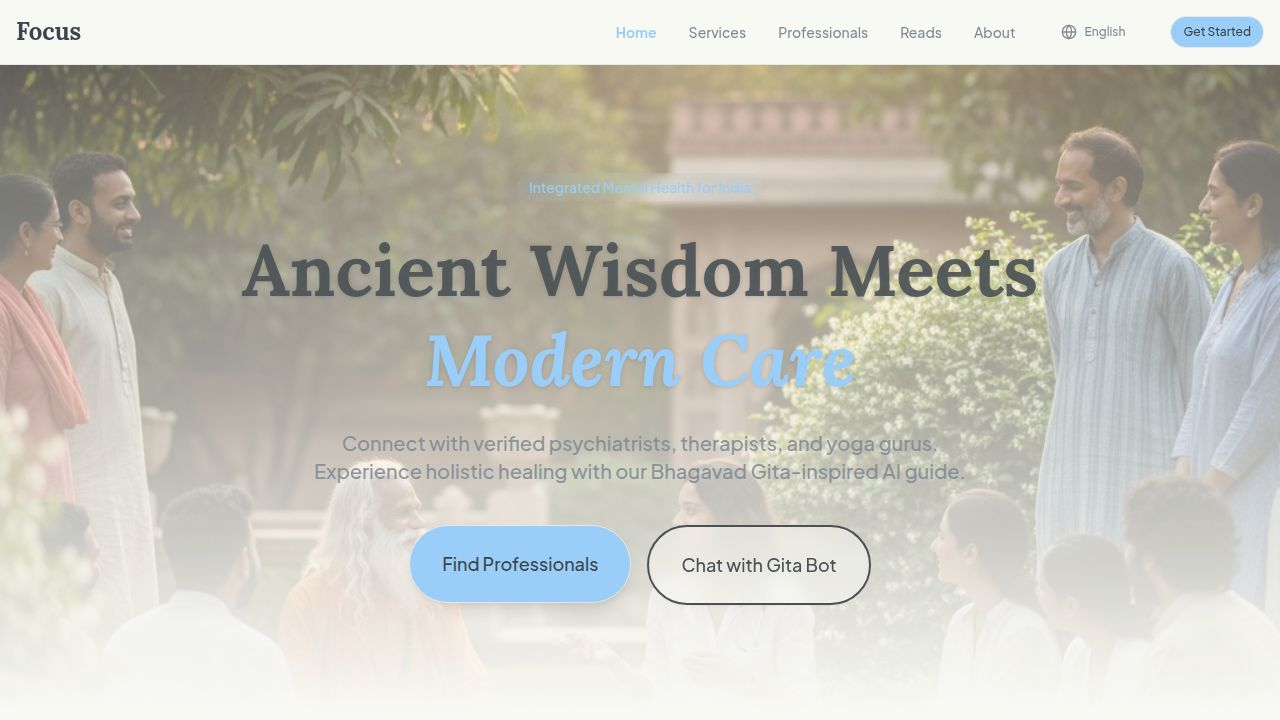
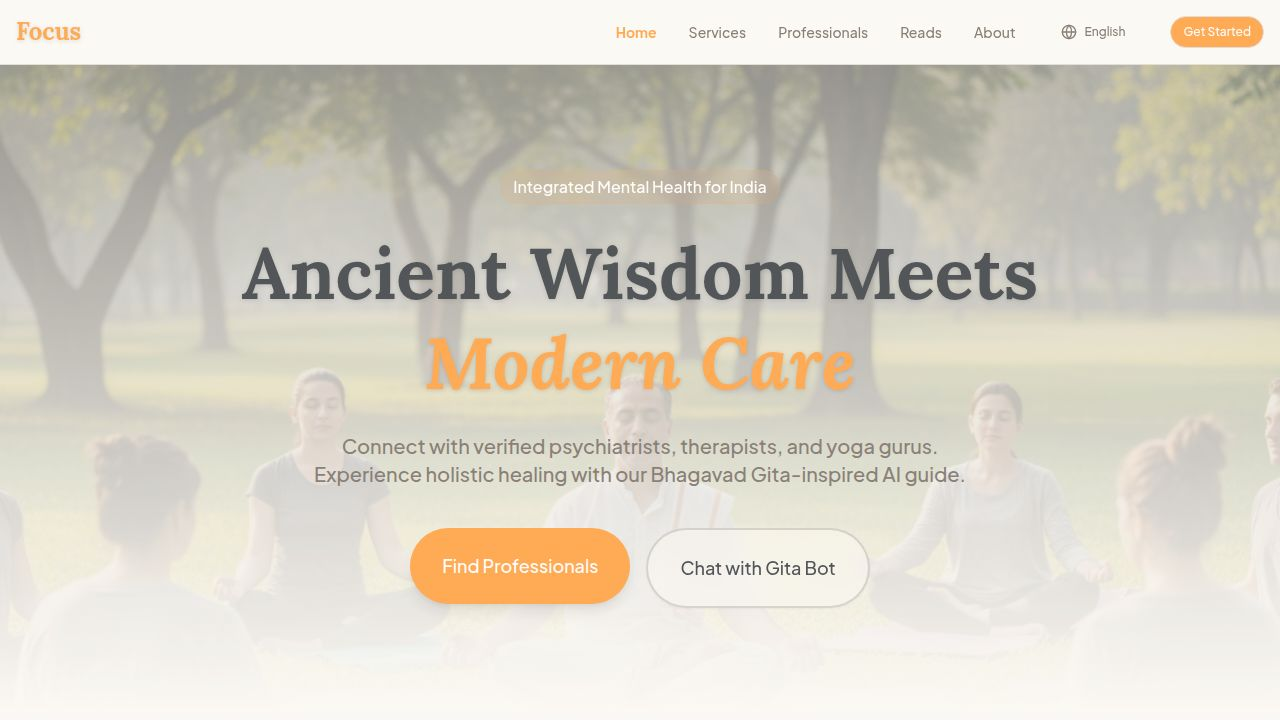
Add a step-by-step guide to the home page explaining how to use the service
Add a new section to the home page detailing the three-step process for users to get started.

Replit-Commit-Author: Agent
Replit-Commit-Session-Id: c5957521-eba2-473e-9073-e5df08816967
Replit-Commit-Checkpoint-Type: full_checkpoint
Replit-Commit-Event-Id: 5c5b692c-ab71-4760-813c-b9c1f55091a2
Replit-Commit-Screenshot-Url: https://storage.googleapis.com/screenshot-production-us-central1/f38cb7eb-8c87-4cb3-a545-fcbd737e7d6a/c5957521-eba2-473e-9073-e5df08816967/zDVEtHE
Replit-Helium-Checkpoint-Created: true

diff --git a/client/src/pages/Home.tsx b/client/src/pages/Home.tsx
@@ -242,6 +242,42 @@ export default function Home() {
             </div>
           </div>
         </section>
+
+        {/* How It Works - Step by Step */}
+        <section className="py-24 bg-muted/20 relative z-30">
+          <div className="container mx-auto px-4">
+            <div className="text-center mb-16">
+              <h2 className="text-3xl md:text-4xl font-bold mb-4 font-serif">How Focus Works</h2>
+              <p className="text-muted-foreground text-lg">Your journey to wellness in 3 simple steps.</p>
+            </div>
+
+            <div className="grid md:grid-cols-3 gap-8 relative">
+              {/* Connecting Line (Desktop) */}
+              <div className="hidden md:block absolute top-12 left-[16%] right-[16%] h-0.5 bg-gradient-to-r from-transparent via-primary/30 to-transparent z-0" />
+
+              {[
+                { step: "01", title: "Choose Your Guide", desc: "Browse verified psychologists, therapists, or yoga gurus based on your needs." },
+                { step: "02", title: "Book a Session", desc: "Schedule a video, audio, or chat session at a time that works for you." },
+                { step: "03", title: "Begin Healing", desc: "Connect securely and start your journey towards mental peace and clarity." }
+              ].map((item, i) => (
+                <motion.div 
+                  key={i}
+                  initial={{ opacity: 0, y: 20 }}
+                  whileInView={{ opacity: 1, y: 0 }}
+                  transition={{ delay: i * 0.2 }}
+                  viewport={{ once: true }}
+                  className="relative z-10 text-center"
+                >
+                  <div className="w-24 h-24 mx-auto rounded-full bg-background border-4 border-primary/10 flex items-center justify-center text-3xl font-bold text-primary mb-6 shadow-sm">
+                    {item.step}
+                  </div>
+                  <h3 className="text-xl font-bold mb-3 font-serif">{item.title}</h3>
+                  <p className="text-muted-foreground max-w-xs mx-auto">{item.desc}</p>
+                </motion.div>
+              ))}
+            </div>
+          </div>
+        </section>
       </div>
     </PageTransition>
   );
